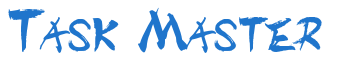
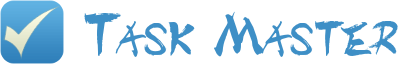
Design

diff --git a/web/css/style.css b/web/css/style.css
@@ -8,8 +8,9 @@ div#container {
     color: #222222;
     border-left: 1px solid #ACE;
     border-right: 1px solid #ACE;
+    border-bottom: 1px solid #ACE;
     min-height: 100%;
-    
+
 }
 
 div#header {
@@ -21,19 +22,127 @@ div#header {
 
 div#header div#logo {    
     background: url('../graphics/task_master.png') transparent center center no-repeat;
-    width: 334px;
-    height: 66px;
-    margin-top: 7px;
+    width: 398px;
+    height: 64px;
+    display: inline-block;
+}
+
+div#header div#logo a {
+    display: inline-block;
+    width: 100%;
+    height: 100%;
+}
+
+div#header div#login-box {
+    padding: 10px 5px 10px 15px;
+    width: 270px;
+    float: right;
+    background-color: #d5eaff;
+    border: 1px solid #E9F4FF;
+    border-radius: 10px 10px 10px 10px;
+}
+
+div#header div#login-box a {
+    float: right;
+    display: inline-block;
+    width: 32px;
+    height: 32px;
+    background: url('../graphics/logout.png') transparent center center no-repeat;
+}
+
+div#main-menu {
+    width: 100%;
+    height: 32px;
+    background-color: #5FB1E1;
+    padding: 5px 0px;
+}
+
+div#main-menu ul {
+    padding: 0px;
+    margin: 0px;
+}
+
+div#main-menu ul li {
+    list-style: none;
+    display: inline-block;
+    margin-left: 25px;
+}
+
+div#main-menu ul li a,
+div#main-menu ul li a:visited,
+div#main-menu ul li a:hover,
+div#main-menu ul li a:active, 
+div#main-menu ul li a:link {
+    font-size: 20px;
+    color: white;
+    font-weight: bold;
+    text-decoration: none;
+    height: 32px;
+    line-height: 32px;
+    display: inline-block;
+    vertical-align: middle;
+    
+}
+
+div#main-menu ul li a.icon {
+    padding-left: 36px;
+}
+
+
+div#main-menu ul li a.icon#icon-user {
+    background: url('../graphics/icons/user.png') transparent left bottom no-repeat;
+}
+
+div#main-menu ul li a.icon#icon-all-tasks {
+    background: url('../graphics/icons/tasks.png') transparent left bottom no-repeat;
+}
+
+div#main-menu ul li a.icon#icon-new-tasks {
+    background: url('../graphics/icons/new_task.png') transparent left bottom no-repeat;
+}
+
+div#main-menu ul li a.icon#icon-my-tasks {
+    background: url('../graphics/icons/my_tasks.png') transparent left bottom no-repeat;
+}
+
+div#main-menu ul li a.icon#icon-tag {
+    background: url('../graphics/icons/tag.png') transparent left bottom no-repeat;
 }
 
 div#body {
-    min-height: 800px;
+    min-height: 500px;
     padding: 18px 24px;
 }
 
 div#footer {
-    height: 70px;
-    padding: 18px 24px;    
+    height: 35px;
+    padding: 10px 24px;    
     background-color: #F4FAFF;
     border-top: 1px solid #E9F4FF;
+}
+
+div#footer div#flags {
+    float: left;
+    display: none;
+}
+
+div#footer div#flags a.flag  {
+    width: 32px;
+    height: 32px;
+    display: inline-block;
+    margin-right: 10px;
+}
+
+div#footer div#flags a.flag#cs {
+    background: url('../graphics/flags/flag_cs.png') transparent center center no-repeat;
+}
+
+div#footer div#flags a.flag#en {
+    background: url('../graphics/flags/flag_gb.png') transparent center center no-repeat;
+}
+
+
+div#footer div#copyright {
+    float: right;
+    margin-top: 10px;
 }
